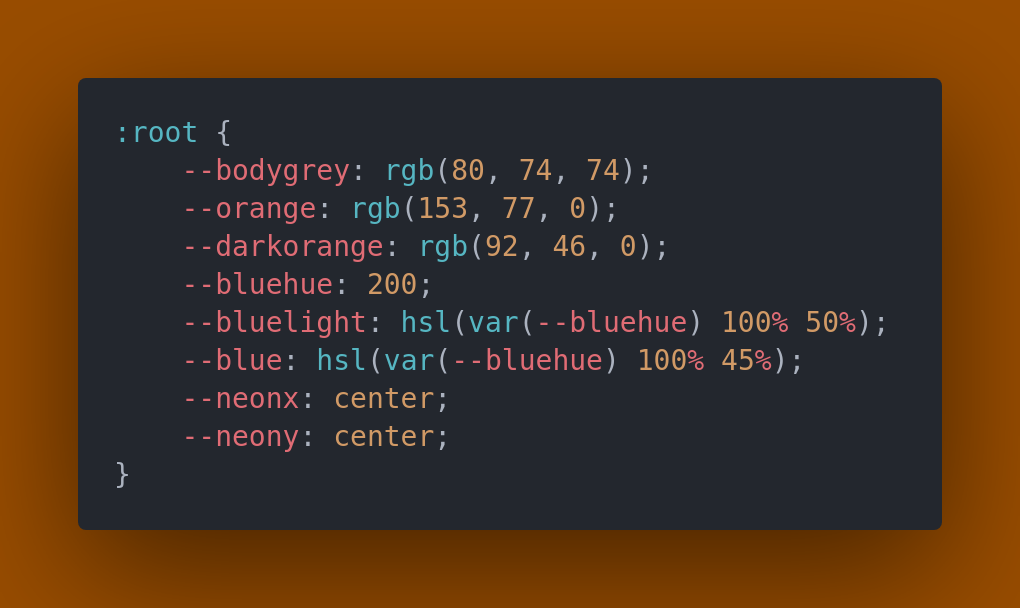
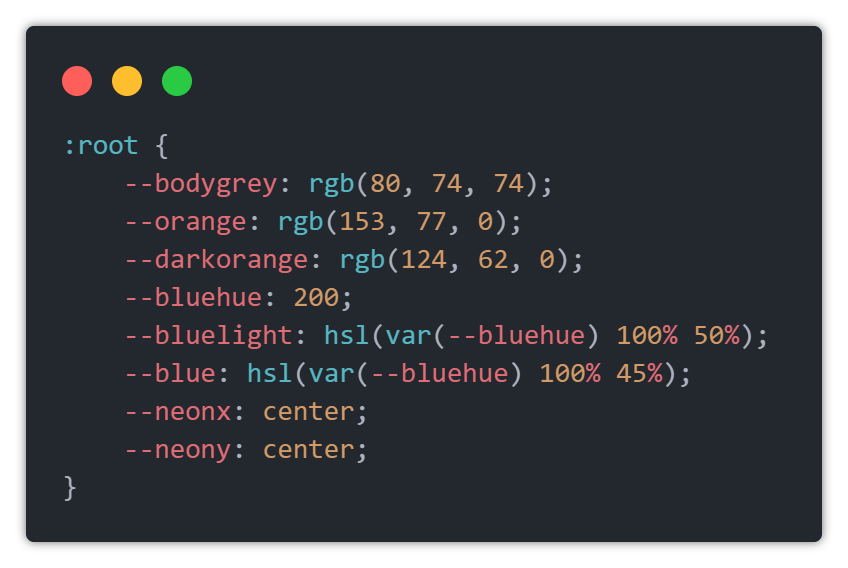
updated dark orange and button gradient 1

diff --git a/style.css b/style.css
@@ -2,7 +2,7 @@
 :root {
     --bodygrey: rgb(80, 74, 74);
     --orange: rgb(153, 77, 0);
-    --darkorange: rgb(92, 46, 0);
+    --darkorange: rgb(124, 62, 0);
     --bluehue: 200;
     --bluelight: hsl(var(--bluehue) 100% 50%);
     --blue: hsl(var(--bluehue) 100% 45%);
@@ -29,7 +29,7 @@ button {
     border: 4px solid transparent;
     border-radius: 15px;
     background:
-    linear-gradient(var(--orange), var(--orange)) padding-box,
+    linear-gradient(var(--orange), var(--darkorange)) padding-box,
 
     radial-gradient(var(--bluelight), var(--blue),
     transparent 60%) no-repeat fixed
